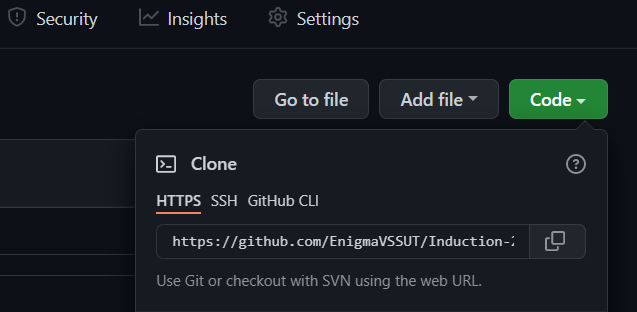
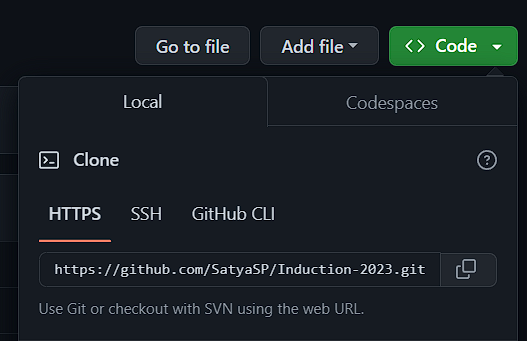
updated README

diff --git a/Open Source/Task-1/README.md b/Open Source/Task-1/README.md
@@ -20,10 +20,10 @@ Now that you have your own copy of the repository it's time to make a copy of it
  
 <ol>
 
-<li>Now go to your forked repository, click on clone and copy the repo address. This will be used to clone the repository to your local system. </li>
+<li>Now go to your forked repository, click on code and copy the repo address. This will be used to clone the repository to your local system. </li>
 <img src="assets/i2.png">
 <br/>
-The link might look different for you and will have your username in place of EnigmaVSSUT.
+The link might look different for you and will have your username in place of SatyaSP.
 <br/>
 <br/>
  
